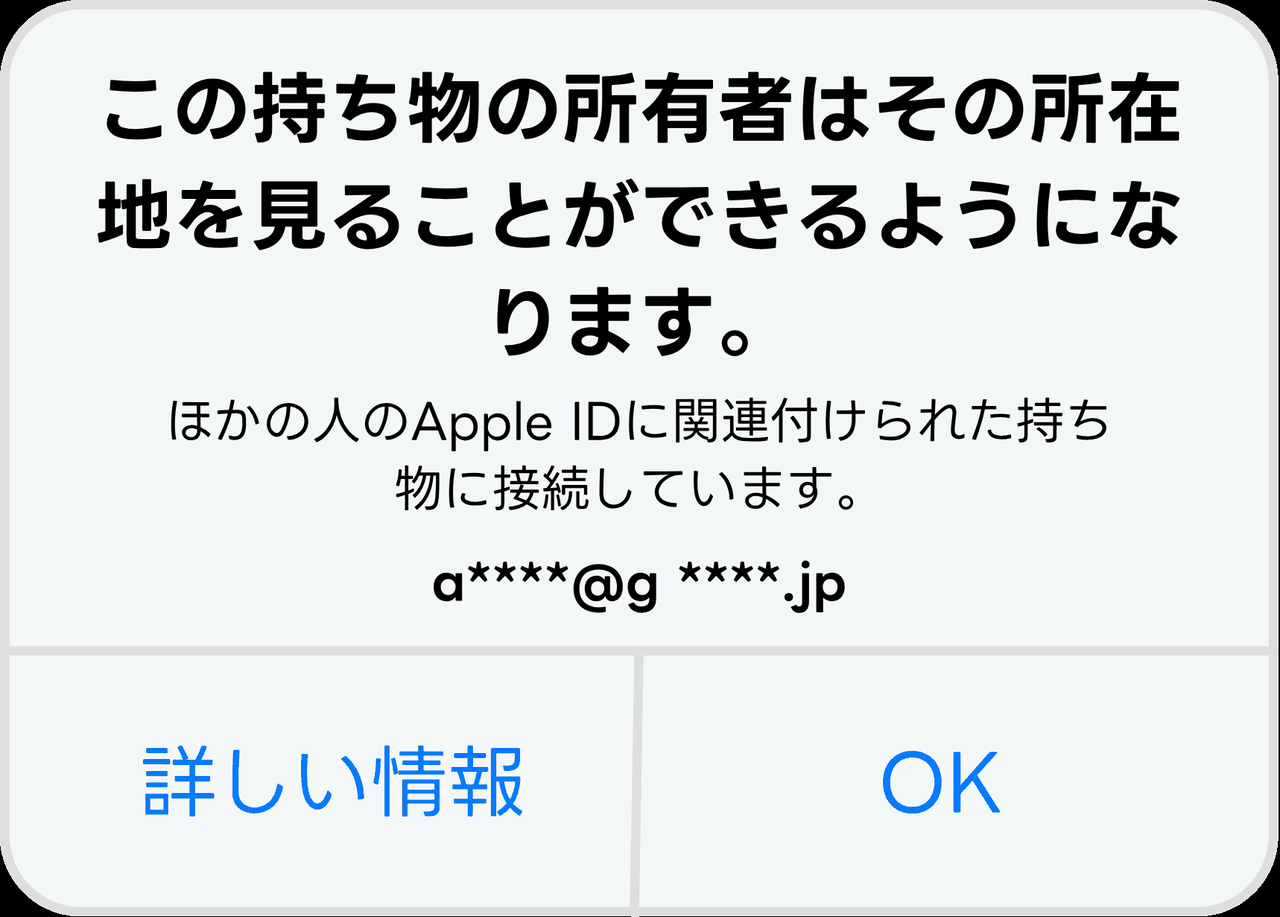
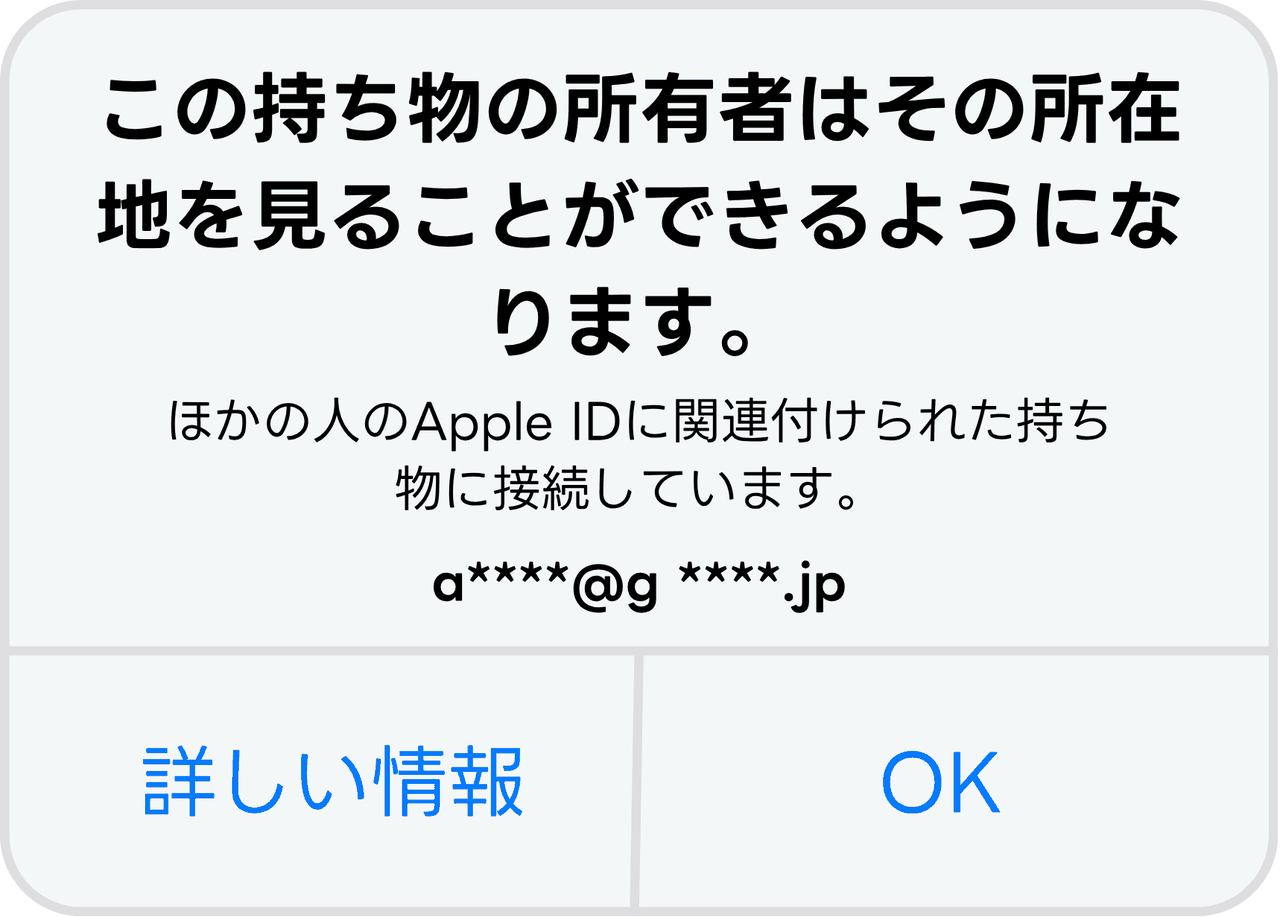
操作画面のスクリーンショット追加と表示調整 (#7)
実機確認でいただいた指示をまとめて反映した。

表示の調整
- ap.findmy「両方とも表示される」のアイコンを縦並びに（黄色が上、赤が下）
- ダイアログ画像の背景が黒くなっていたのを修正。前回の書き出しで透過を落とした際に
  黒へ変換されていたため、白（ページ背景と同色）で塗ってから作り直した
- トップページの選択肢から「すべてのモデル」を削除
- 本文中の「i マーク」を ⓘ アイコン表示に（{info} を追加・全4箇所）
- a.findmy_reset 手順4の本文を実機の表示に合わせて変更

操作画面のスクリーンショット26点を追加（延べ61箇所）
- リセット3ページ共通の手順3・7
- a.setup の手順1〜4
- a.findmy_reset の手順2〜4
- a.advanced の20箇所
- a.firmware の手順1・7・9

オン／オフの両方をいただいた箇所は、その手順を実行した結果の状態だけを残した。
条件付きの指示では操作前の状態が人によって異なるため、全員に共通するゴールを示す。

steps[].pic を複数枚対応にし、3枚以上は2枚ずつ折り返す段組みにした。
同じ画面は1ファイルにまとめて複数箇所から参照する（設定トップは10箇所など）。
画像は幅600pxへ縮小し、平坦なUI画面は減色PNG、地図を含む画面はJPEGで書き出して
5.8MB から 1.7MB に圧縮した。

検証: 既存の手順1〜8に加え、参照と実ファイルの双方向の突き合わせ、状態画像が
操作後のものだけであること、リセット3ページへの共通反映を確認する手順9を新設。すべて通過。

Claude-Session: https://claude.ai/code/session_01AB9PWqBDnF7Mqpi2RmzNKQ

diff --git a/flow.js b/flow.js
@@ -22,8 +22,8 @@ const NODES = {
     hint:'モデルごとに詳しくご案内いたします。',
     product:true,
     options:[
-      { label:'AirPods', sub:'すべてのモデル', next:'ap.menu', image:'images/product-airpods.png' },
-      { label:'Apple Watch', sub:'すべてのモデル', next:'aw.menu', image:'images/product-apple-watch.png' },
+      { label:'AirPods', next:'ap.menu', image:'images/product-airpods.png' },
+      { label:'Apple Watch', next:'aw.menu', image:'images/product-apple-watch.png' },
     ],
   },
 
@@ -115,11 +115,11 @@ const NODES = {
     title:'AirPods の設定が完了していません',
     lead:'この警告が表示されている場合は、設定が正しく完了できていない可能性があります。',
     steps:[
-      { text:'一部の AirPods の「探す」機能は、ペアリングしている iPhone のソフトウェアが最新バージョンのときのみ動作します。最新バージョンの iOS がインストールされていることを確認してください。', image:'images/setup-incomplete-detail.png', caption:'「探す」アプリに表示される設定未完了',
+      { pic:['images/ss-settings-top.png', 'images/ss-settings-general.png'], text:'一部の AirPods の「探す」機能は、ペアリングしている iPhone のソフトウェアが最新バージョンのときのみ動作します。最新バージョンの iOS がインストールされていることを確認してください。', image:'images/setup-incomplete-detail.png', caption:'「探す」アプリに表示される設定未完了',
         nav:['設定','一般','ソフトウェアアップデート'] },
-      { text:'ペアリングしている iPhone の「探す」アプリの設定が、正しく完了しているかを確認してください。' },
-      { text:'Apple Account の2ファクタ認証が有効になっているかを確認してください。', image:'images/two-factor.png', caption:'設定 → アカウント名 → サインインとセキュリティ → 2ファクタ認証' },
-      { text:'iCloud キーチェーンが有効になっているかを確認してください。', image:'images/icloud-keychain.png', caption:'iCloud → パスワード → パスワードとキーチェーン' },
+      { pic:['images/ss-findmy-devices-warn.png', 'images/ss-findmy-airpods-warn.jpg'], text:'ペアリングしている iPhone の「探す」アプリの設定が、正しく完了しているかを確認してください。' },
+      { pic:['images/ss-settings-top.png', 'images/ss-apple-account.png', 'images/ss-signin-security.png', 'images/ss-two-factor.png'], text:'Apple Account の2ファクタ認証が有効になっているかを確認してください。', image:'images/two-factor.png', caption:'設定 → アカウント名 → サインインとセキュリティ → 2ファクタ認証' },
+      { pic:['images/ss-settings-top.png', 'images/ss-apple-account.png', 'images/ss-icloud.png', 'images/ss-keychain-on.png'], text:'iCloud キーチェーンが有効になっているかを確認してください。', image:'images/icloud-keychain.png', caption:'iCloud → パスワード → パスワードとキーチェーン' },
       { text:'1〜4 の設定が正しく完了していることを確認し、接続している AirPods の本体を両耳とも充電ケースへ収納し、蓋を閉じた状態で有線ケーブルによる充電を行ってください。' },
       { text:'ペアリングしている iPhone を、AirPods から 1m 以内の場所に置いて、数分待機してください。' },
       { text:'再度、AirPods の充電ケースの蓋を開けたまま、ペアリングしている iPhone で「探す」アプリを開いて、症状が改善しているかを確認してください。',
@@ -148,45 +148,45 @@ const NODES = {
     lead:'AirPods の設定が完了できない原因として、Apple Account や「探す」ネットワーク、iPhone 側の接続エラーが考えられます。以下の手順に従って実行してください。',
     steps:[
       { text:'AirPods の本体を両耳とも充電ケースへ収納し、充電ケースの蓋を閉じてください。' },
-      { text:'ペアリングしている iPhone で設定アプリを開き、Bluetooth をタップしてください。', image:'images/bluetooth-airpods.png', caption:'設定 → Bluetooth（自分のデバイス一覧）',
+      { pic:'images/ss-settings-top.png', text:'ペアリングしている iPhone で設定アプリを開き、Bluetooth をタップしてください。', image:'images/bluetooth-airpods.png', caption:'設定 → Bluetooth（自分のデバイス一覧）',
         nav:['設定','Bluetooth'] },
-      { text:'自分のデバイス一覧に表示されている、ペアリング済みの AirPods の「i マーク」をタップしてください。' },
-      { text:'AirPods のページ最下部にある「このデバイスの登録を解除」をタップしてください。', image:'images/airpods-info.png', caption:'AirPods 情報ページ最下部の「このデバイスの登録を解除」' },
+      { pic:'images/ss-bluetooth.png', text:'自分のデバイス一覧に表示されている、ペアリング済みの AirPods の {info} をタップしてください。' },
+      { pic:'images/ss-airpods-info-unpair.png', text:'AirPods のページ最下部にある「このデバイスの登録を解除」をタップしてください。', image:'images/airpods-info.png', caption:'AirPods 情報ページ最下部の「このデバイスの登録を解除」' },
       { text:'Bluetooth の自分のデバイス一覧から、ペアリング済みの AirPods が削除されていることを確認してください。' },
-      { text:'ペアリングしている iPhone で「探す」アプリを開いて、「デバイスを探す」の一覧からペアリング済みの AirPods が削除されていることを確認してください。', image:'images/findmy-devices-list.png', caption:'「デバイスを探す」の一覧',
+      { pic:'images/ss-findmy-devices.png', text:'ペアリングしている iPhone で「探す」アプリを開いて、「デバイスを探す」の一覧からペアリング済みの AirPods が削除されていることを確認してください。', image:'images/findmy-devices-list.png', caption:'「デバイスを探す」の一覧',
         nav:['探す','デバイスを探す'] },
-      { text:'設定アプリを開き、「Face ID とパスコード」をタップしてください。', image:'images/faceid-passcode-list.png', caption:'設定 → Face ID とパスコード',
+      { pic:'images/ss-settings-faceid-row.png', text:'設定アプリを開き、「Face ID とパスコード」をタップしてください。', image:'images/faceid-passcode-list.png', caption:'設定 → Face ID とパスコード',
         nav:['設定','Face ID とパスコード'] },
-      { text:'「盗難デバイスの保護」をタップしてください。' },
-      { text:'盗難デバイスの保護がオンになっている場合は、この設定をオフにしてください。', image:'images/theft-protection-on.png', caption:'盗難デバイスの保護（オンの状態）' },
-      { text:'設定アプリのトップ画面に戻り、ページ最上部に表示されるご自身のアカウント名をタップしてください。' },
-      { text:'Apple Account ページの「探す」をタップしてください。',
+      { pic:['images/ss-faceid-top.png', 'images/ss-faceid-bottom.png'], text:'「盗難デバイスの保護」をタップしてください。' },
+      { pic:'images/ss-theft-off.png', text:'盗難デバイスの保護がオンになっている場合は、この設定をオフにしてください。', image:'images/theft-protection-on.png', caption:'盗難デバイスの保護（オンの状態）' },
+      { pic:'images/ss-settings-top.png', text:'設定アプリのトップ画面に戻り、ページ最上部に表示されるご自身のアカウント名をタップしてください。' },
+      { pic:'images/ss-apple-account.png', text:'Apple Account ページの「探す」をタップしてください。',
         nav:['設定','アカウント名','探す'] },
-      { text:'「iPhone を探す」をタップし、オンになっている場合はオフにしてください。', image:'images/find-iphone-off.png', caption:'「iPhone を探す」をオフにした状態' },
-      { text:'Apple Account ページへ戻り、iCloud をタップしてください。',
+      { pic:['images/ss-find-settings.png', 'images/ss-find-iphone-off.png'], text:'「iPhone を探す」をタップし、オンになっている場合はオフにしてください。', image:'images/find-iphone-off.png', caption:'「iPhone を探す」をオフにした状態' },
+      { pic:['images/ss-apple-account.png', 'images/ss-icloud.png'], text:'Apple Account ページへ戻り、iCloud をタップしてください。',
         nav:['設定','アカウント名','iCloud'] },
-      { text:'「パスワード」をタップし、「パスワードとキーチェーン」の「この iPhone を同期」がオンになっている場合は、オフにしてください。', image:'images/icloud-keychain.png', caption:'iCloud → パスワード → パスワードとキーチェーン',
+      { pic:'images/ss-keychain-off.png', text:'「パスワード」をタップし、「パスワードとキーチェーン」の「この iPhone を同期」がオンになっている場合は、オフにしてください。', image:'images/icloud-keychain.png', caption:'iCloud → パスワード → パスワードとキーチェーン',
         nav:['iCloud','パスワード'] },
       { text:'1〜14 の設定を保持したまま、iPhone を再起動させてください。', image:'images/power-off.png', caption:'スライドで電源オフ' },
       { text:'iPhone を再起動したら、設定アプリを開いてください。' },
-      { text:'ページ最上部に表示されるご自身のアカウント名をタップしてください。' },
+      { pic:['images/ss-settings-top.png', 'images/ss-apple-account.png'], text:'ページ最上部に表示されるご自身のアカウント名をタップしてください。' },
       { text:'Apple Account ページの「探す」をタップしてください。',
         nav:['設定','アカウント名','探す'] },
-      { text:'「iPhone を探す」をタップしてオンにしてください。「探すネットワーク」がオフのままの場合は、オンにしてください。', image:'images/find-iphone-all-on.png', caption:'「iPhone を探す」「探すネットワーク」をオン' },
-      { text:'Apple Account ページへ戻り、iCloud をタップしてください。',
+      { pic:'images/ss-find-iphone-on.png', text:'「iPhone を探す」をタップしてオンにしてください。「探すネットワーク」がオフのままの場合は、オンにしてください。', image:'images/find-iphone-all-on.png', caption:'「iPhone を探す」「探すネットワーク」をオン' },
+      { pic:['images/ss-apple-account.png', 'images/ss-icloud.png'], text:'Apple Account ページへ戻り、iCloud をタップしてください。',
         nav:['設定','アカウント名','iCloud'] },
-      { text:'「パスワード」をタップして、「パスワードとキーチェーン」の「この iPhone を同期」をオンにしてください。',
+      { pic:'images/ss-keychain-on.png', text:'「パスワード」をタップして、「パスワードとキーチェーン」の「この iPhone を同期」をオンにしてください。',
         nav:['iCloud','パスワード'] },
       { text:'お使いの機種のリセット方法の手順（本体リセット以降）を実行し、AirPods 本体のリセットを完了させてください。',
         linkTo:'ap.gen', linkLabel:'機種を選んでリセット手順を見る' },
       { text:'再び AirPods と iPhone をペアリングしてください。' },
       { text:'設定アプリを開いてください。' },
-      { text:'Bluetooth をタップし、自分のデバイス一覧に AirPods が表示されていることを確認してください。', image:'images/bluetooth-airpods.png', caption:'設定 → Bluetooth',
+      { pic:['images/ss-settings-top.png', 'images/ss-bluetooth.png'], text:'Bluetooth をタップし、自分のデバイス一覧に AirPods が表示されていることを確認してください。', image:'images/bluetooth-airpods.png', caption:'設定 → Bluetooth',
         nav:['設定','Bluetooth'] },
-      { text:'自分のデバイス一覧に表示されている、ペアリング済みの AirPods の「i マーク」をタップしてください。' },
-      { text:'AirPods の設定画面の中ほどにある「バッテリー」をタップしてください。', image:'images/airpods-battery.png', caption:'AirPods → バッテリー（充電の最適化）' },
-      { text:'バッテリー充電の最適化がオフになっている場合は、オンに変更してください。' },
-      { text:'ページを一つ戻り、AirPods ページの最下部にある情報から「バージョン」をタップしてください。', image:'images/airpods-info.png', caption:'AirPods 情報 → バージョン', image:'images/airpods-info.png', caption:'AirPods 情報 → バージョン' },
+      { text:'自分のデバイス一覧に表示されている、ペアリング済みの AirPods の {info} をタップしてください。' },
+      { pic:['images/ss-airpods-top.png', 'images/ss-airpods-battery-row.png'], text:'AirPods の設定画面の中ほどにある「バッテリー」をタップしてください。', image:'images/airpods-battery.png', caption:'AirPods → バッテリー（充電の最適化）' },
+      { pic:'images/ss-airpods-battery.png', text:'バッテリー充電の最適化がオフになっている場合は、オンに変更してください。' },
+      { pic:'images/ss-airpods-info.png', text:'ページを一つ戻り、AirPods ページの最下部にある情報から「バージョン」をタップしてください。', image:'images/airpods-info.png', caption:'AirPods 情報 → バージョン', image:'images/airpods-info.png', caption:'AirPods 情報 → バージョン' },
       { text:'バージョンページに表示されているファームウェアが最新であることを確認してください。',
         after:'「ファームウェアの詳細はこちら」から、デバイスごとの最新ファームウェアバージョンを確認できます。バージョンが最新ではない場合は、「AirPods のファームウェアをアップデートする」を実行してください。',
         linkTo:'a.firmware', linkLabel:'AirPods のファームウェアをアップデートする' },
@@ -202,7 +202,7 @@ const NODES = {
     title:'AirPods のファームウェアをアップデートする',
     lead:'ファームウェアは、AirPods を iPhone に接続した状態で自動的に更新されます。',
     steps:[
-      { text:'iPhone の設定アプリを開き、「一般」から「ソフトウェアアップデート」をタップしてください。ソフトウェアが最新ではない場合は、アップデートを行ってください。', image:'images/settings-general.png', caption:'設定 → 一般 → ソフトウェアアップデート',
+      { pic:['images/ss-settings-top.png', 'images/ss-settings-general.png'], text:'iPhone の設定アプリを開き、「一般」から「ソフトウェアアップデート」をタップしてください。ソフトウェアが最新ではない場合は、アップデートを行ってください。', image:'images/settings-general.png', caption:'設定 → 一般 → ソフトウェアアップデート',
         nav:['設定','一般','ソフトウェアアップデート'] },
       { text:'iPhone の iOS が最新版であることを確認し、Wi-Fi に接続してください。' },
       { text:'接続している AirPods の本体を両耳とも充電ケースに収納し、有線ケーブルで充電してください。' },
@@ -210,10 +210,10 @@ const NODES = {
       { text:'この状態で、ファームウェアがアップデートされるのを待機してください。',
         after:'アップデートには30分以上かかる場合があります。' },
       { text:'AirPods の充電ケースの蓋を開け、ペアリングしている iPhone と接続した状態にしてください。' },
-      { text:'iPhone の設定アプリを開き、Bluetooth をタップして、自分のデバイス一覧に AirPods が表示されていることを確認してください。', image:'images/bluetooth-airpods.png', caption:'設定 → Bluetooth',
+      { pic:['images/ss-settings-top.png', 'images/ss-bluetooth.png'], text:'iPhone の設定アプリを開き、Bluetooth をタップして、自分のデバイス一覧に AirPods が表示されていることを確認してください。', image:'images/bluetooth-airpods.png', caption:'設定 → Bluetooth',
         nav:['設定','Bluetooth'] },
-      { text:'自分のデバイス一覧に表示されている、ペアリング済みの AirPods の「i マーク」をタップしてください。' },
-      { text:'AirPods ページの最下部にある情報から「バージョン」をタップしてください。' },
+      { text:'自分のデバイス一覧に表示されている、ペアリング済みの AirPods の {info} をタップしてください。' },
+      { pic:['images/ss-airpods-top.png', 'images/ss-airpods-battery-row.png', 'images/ss-airpods-info.png'], text:'AirPods ページの最下部にある情報から「バージョン」をタップしてください。' },
       { text:'バージョンページに表示されているファームウェアが最新版になっていれば、完了です。' },
     ],
     note:'<strong>アップデートが完了しない場合</strong><br>手順1から再度やり直してください。',
@@ -248,10 +248,10 @@ const NODES = {
     lead:'本体リセットだけでは「デバイスを探す」から削除されない場合に、この手順で解除します。',
     steps:[
       { text:'接続している AirPods（もしくは、解除済みだが連携が残っている AirPods）の本体を両耳とも充電ケースへ収納し、充電ケースの蓋を開けてください。' },
-      { text:'充電ケースの蓋を開けたまま、「探す」アプリを開いてください。',
+      { pic:'images/ss-findmy-devices.png', text:'充電ケースの蓋を開けたまま、「探す」アプリを開いてください。',
         nav:['探す','デバイスを探す'] },
-      { text:'「デバイスを探す」の一覧から、削除したい AirPods のアイコンをタップしてください。', image:'images/findmy-map-airpods.png', caption:'「デバイスを探す」→ AirPods' },
-      { text:'設定ページの最下部に表示される「このデバイスを削除」をタップしてください。', image:'images/airpods-remove-findmy.png', caption:'AirPods → 解除' },
+      { pic:'images/ss-findmy-airpods.png', text:'「デバイスを探す」の一覧から、削除したい AirPods のアイコンをタップしてください。', image:'images/findmy-map-airpods.png', caption:'「デバイスを探す」→ AirPods' },
+      { text:'「解除」をタップしてください。次の画面でも「解除」をタップしてください。', pic:'images/ss-findmy-airpods-remove.png', image:'images/airpods-remove-findmy.png', caption:'AirPods → 解除' },
       { text:'充電ケースの蓋を閉じて30秒ほど待機すると、「デバイスを探す」の一覧から AirPods が削除されます。' },
     ],
     note:'<strong>一覧から消えない場合</strong><br>「デバイスを探す」の更新には数分かかることがあります。<br>時間が経っても表示が残る場合は、「探す」アプリを終了したあと iPhone を再起動してください。<br>それでも改善しない場合は、iPhone にペアリングを直して最初からやり直し、なお解消しなければ、お使いの機種のリセット方法を再度実行してください。',
@@ -423,7 +423,7 @@ function RESET(kind, pic){
       { text:'AirPods の両耳を充電ケースに収納し、蓋を閉めて30秒待ちます。' },
       { text:'接続している iPhone で設定アプリを開き、Bluetooth をタップします。',
         nav:['設定','Bluetooth'] },
-      { text:'自分のデバイス一覧から AirPods の「i マーク」をタップし、「このデバイスの登録を解除」をタップしてください。' },
+      { pic:['images/ss-settings-top.png', 'images/ss-bluetooth.png'], text:'自分のデバイス一覧から AirPods の {info} をタップし、「このデバイスの登録を解除」をタップしてください。' },
       { text:'自分のデバイス一覧から AirPods が削除されたことを確認したら、充電ケースの蓋を開けてください。' },
       /* pic … SHOW_IMAGES の影響を受けない手順内画像。機種ごとの充電ケースを示す。
          既存の image / images は原稿準備中の手順画像で、SHOW_IMAGES で一括非表示のまま残す。 */
@@ -434,7 +434,7 @@ function RESET(kind, pic){
             { src:'images/reset-tap-2.png', caption:'横長タイプ' },
           ] },
       { text:'30秒ほど待機して再び蓋を開けると、LED ランプが白く点滅し、接続できる状態になります。' },
-      { text:'接続していた iPhone で「探す」アプリを開いてください。',
+      { pic:'images/ss-findmy-devices.png', text:'接続していた iPhone で「探す」アプリを開いてください。',
         nav:['探す','デバイスを探す'] },
       { text:'接続していた AirPods が「デバイスを探す」の一覧から削除されていれば、リセットは完了です。' },
     ],

diff --git a/index.html b/index.html
@@ -58,9 +58,9 @@
   .opt.product{padding:22px 46px 22px 20px;background:#fff;border-color:var(--line);}
   .opt.product .label{font-size:19px;font-weight:600;}
   .opt.has-icon{padding-left:56px;}    /* 18 + 24 + 14 */
-  .opt.has-icon2{padding-left:86px;}   /* 18 + 24 + 6 + 24 + 14（アイコン2つ） */
-  /* アイコンは入れ物ごと絶対配置し、中を横並びにする。1つのときの見た目は従来どおり */
-  .opt-ics{position:absolute;left:18px;top:50%;transform:translateY(-50%);display:flex;gap:6px;}
+  /* アイコンは入れ物ごと絶対配置する。2つのときは縦に積むので必要な幅は1つのときと同じ */
+  .opt-ics{position:absolute;left:18px;top:50%;transform:translateY(-50%);
+    display:flex;flex-direction:column;gap:6px;}
   .opt-ic{
     width:24px;height:24px;border-radius:50%;color:#fff;font-weight:700;font-size:15px;
     display:flex;align-items:center;justify-content:center;line-height:1;flex-shrink:0;
@@ -81,6 +81,10 @@
   .nodefigs{display:flex;gap:14px;align-items:flex-start;margin:0 0 26px;}
   .nodefigs img{flex:0 1 180px;min-width:0;max-width:180px;height:auto;}
   ol.steps .nodefigs{margin:14px 0 0;}
+  /* 操作画面のスクリーンショットは縦長なので、アイコン用の180px上限とは別枠。
+     本文幅を2列で分け合い、3枚以上は折り返して段組みにする。 */
+  .nodefigs.shots{flex-wrap:wrap;}
+  .nodefigs.shots img{flex:0 1 calc(50% - 7px);max-width:calc(50% - 7px);}
 
   /* 手順が1つだけのページは番号バッジを出さず、そのぶん左を詰める */
   ol.steps.single > li{padding-left:0;}
@@ -94,6 +98,11 @@
   /* 本文中のバンドリリースボタン */
   .ic-btn{display:inline-block;width:24px;height:10px;border-radius:999px;
     background:#e0322c;vertical-align:middle;margin:0 2px;}
+  /* 本文中の「i マーク」。設定アプリの ⓘ に合わせて青い丸枠に i */
+  .ic-info{display:inline-block;width:18px;height:18px;border-radius:50%;
+    border:1.5px solid var(--accent);color:var(--accent);
+    font-size:12px;font-weight:600;line-height:15px;text-align:center;
+    vertical-align:middle;margin:0 2px;font-style:normal;}
 
   .eyebrow{font-size:12.5px;font-weight:600;color:var(--accent);letter-spacing:.04em;margin:0 0 8px;}
   .lead{font-size:16px;color:var(--sub);margin:0 0 28px;}
@@ -327,9 +336,10 @@ function NodeFigure({ node }){
 /* 手順の本文に置いた {arrow} {btn} を小さな図形に置き換える。
    データ側は素のテキストのままにしておきたいので HTML の埋め込みは使わない。 */
 function withMarks(text){
-  return String(text).split(/(\{arrow\}|\{btn\})/).map(function(part,i){
+  return String(text).split(/(\{arrow\}|\{btn\}|\{info\})/).map(function(part,i){
     if (part === '{arrow}') return <span key={i} className="ic-arrow" role="img" aria-label="矢印" />;
     if (part === '{btn}')   return <span key={i} className="ic-btn" role="img" aria-label="バンドリリースボタン" />;
+    if (part === '{info}')  return <span key={i} className="ic-info" role="img" aria-label="i マーク">i</span>;
     return part;
   });
 }
@@ -351,8 +361,11 @@ function StepList({ steps, onGoto }){
               ))}
             </div>
           )}
-          {/* pic は SHOW_IMAGES の影響を受けない手順内画像 */}
-          {s.pic && <div className="nodefigs"><img src={s.pic} alt="" /></div>}
+          {/* pic は SHOW_IMAGES の影響を受けない手順内画像。1枚でも複数枚でも受け取る */}
+          {s.pic && (Array.isArray(s.pic) ? s.pic : [s.pic]).length > 0 &&
+            <div className="nodefigs shots">
+              {(Array.isArray(s.pic) ? s.pic : [s.pic]).map((p,j)=><img key={j} src={p} alt="" />)}
+            </div>}
           <Figure src={s.image} caption={s.caption} images={s.images} />
           {s.after && <p className="quiet">{s.after}</p>}
           {s.linkTo && (
@@ -380,8 +393,8 @@ function Question({ node, onSelect, onGoto, onBack, canBack }){
           const icons = o.icon ? (Array.isArray(o.icon) ? o.icon : [o.icon]) : [];
           return (
           <button key={i} className={'opt' + (node.product ? ' product' : '')
-              + (icons.length ? ' has-icon' : '') + (icons.length > 1 ? ' has-icon2' : '')
-              + (o.image ? ' has-img' : '')} onClick={()=>onSelect(o,i)}>
+              + (icons.length ? ' has-icon' : '') + (o.image ? ' has-img' : '')}
+              onClick={()=>onSelect(o,i)}>
             {icons.length > 0 &&
               <span className="opt-ics" aria-hidden="true">
                 {icons.map((ic,j)=><span key={j} className={'opt-ic ' + ic}>!</span>)}
